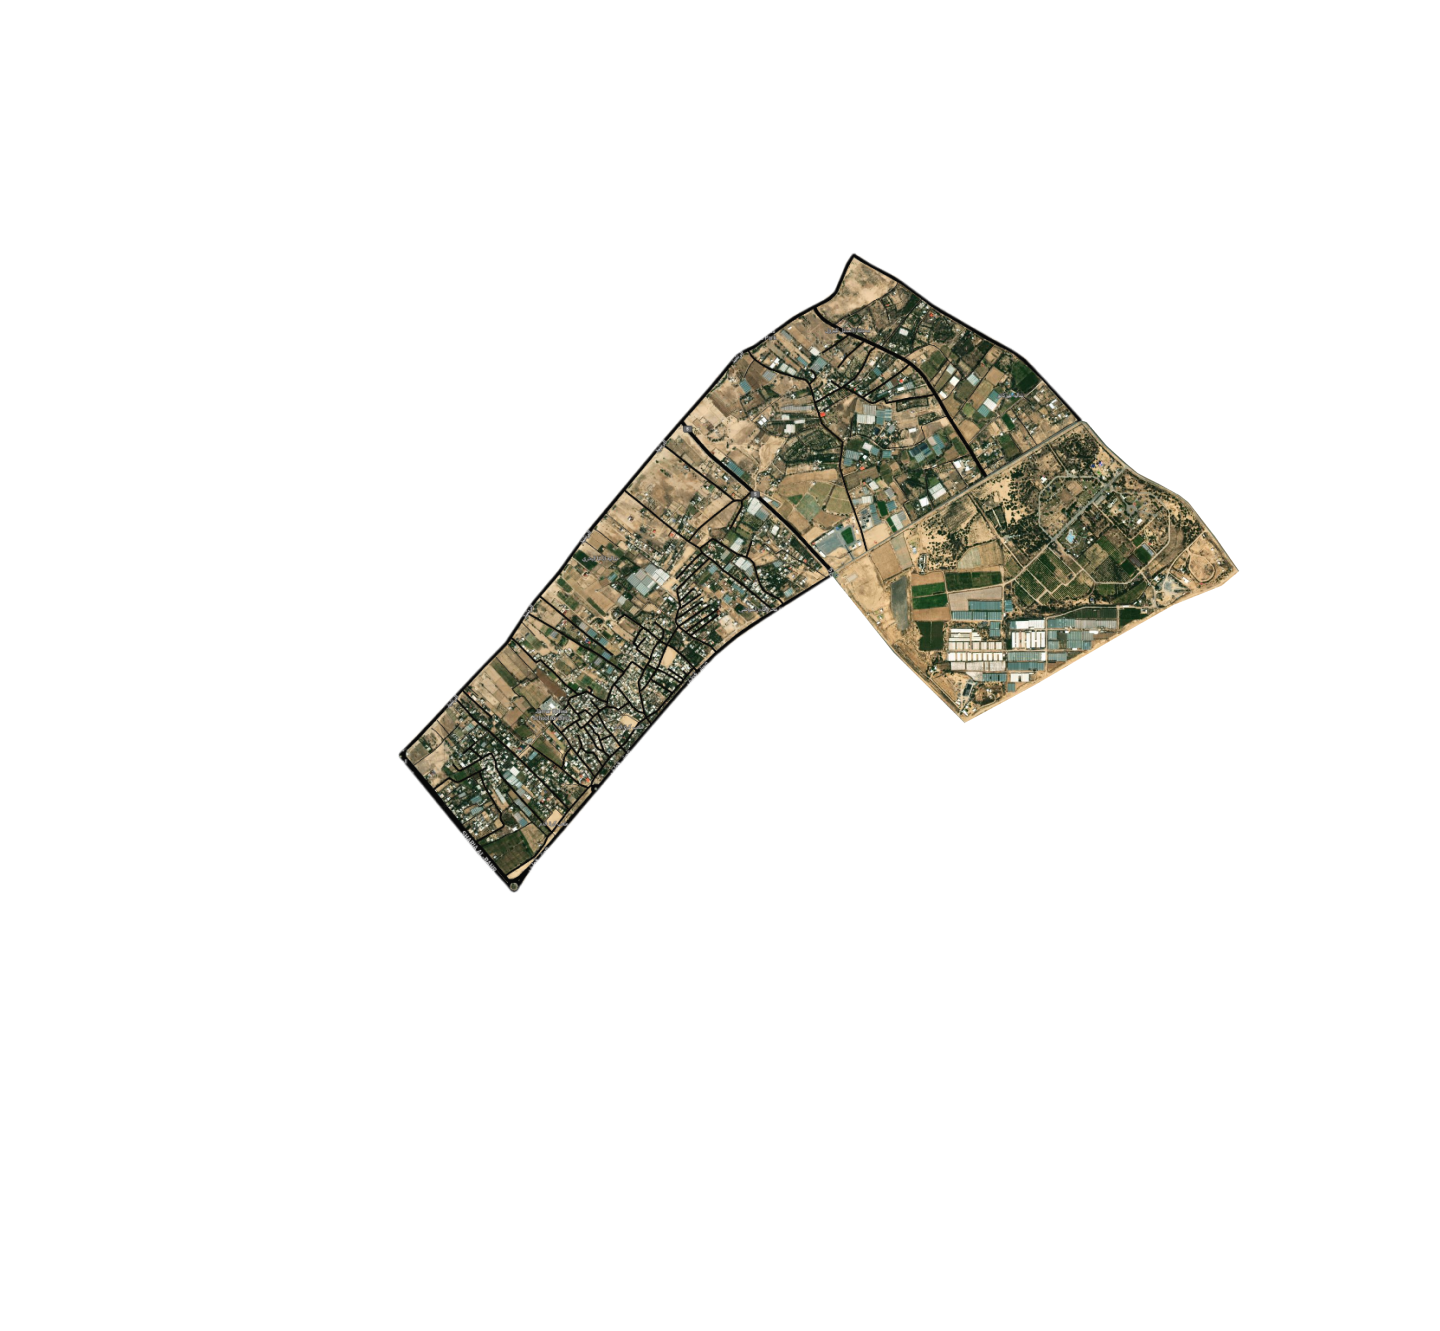
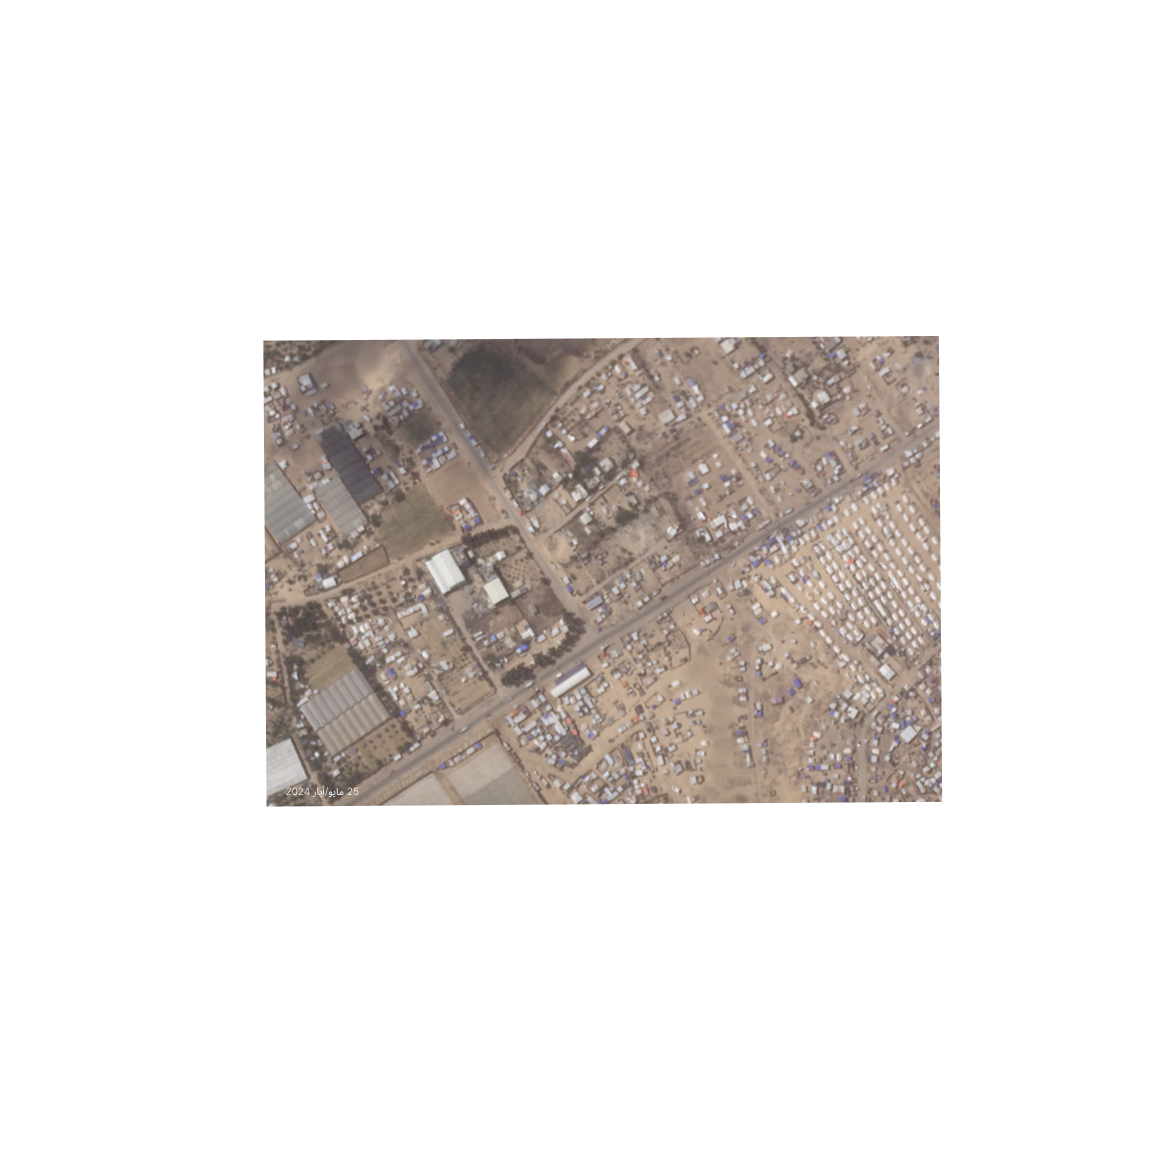
90% Preview (without mobile)

Changed region(s): [[0.2147, 0.184, 0.8586, 0.7053]]

diff --git a/js/main.js b/js/main.js
@@ -131,7 +131,7 @@ function showLoading(){
             document.dispatchEvent(event);
             hideLoadingScreen();
             // Disable Scroll until ok is clicked
-            lockScroll();
+            // lockScroll();
             // Unlock page (remove warning) on button click
             document.getElementById('unlockScrollButton').addEventListener('click', function() {
                 if(!isMobileScreen()){
@@ -376,7 +376,14 @@ function addImageLayer(name, size, rotation=0, duration=0.1, before=false){
                 'source': name,
                 'layout': {
                     'icon-image': name,
-                    'icon-size': size
+                    'icon-size': ['interpolate', ['linear'], ['zoom'],
+                        9, size / 1.5,
+                        13, size * 1.5,
+                        14, size * 4,
+                        15, size * 8,
+                    ],
+                    'icon-allow-overlap': true,
+                    'icon-anchor': 'center',
                 }
             }, before);
         }else{
@@ -386,7 +393,14 @@ function addImageLayer(name, size, rotation=0, duration=0.1, before=false){
                 'source': name,
                 'layout': {
                     'icon-image': name,
-                    'icon-size': size
+                    'icon-size': ['interpolate', ['linear'], ['zoom'],
+                        9, size / 1.5,
+                        13, size * 1.5,
+                        14, size * 4,
+                        15, size * 8,
+                    ],
+                    'icon-allow-overlap': true,
+                    'icon-anchor': 'center',
                 }
             });
         }
@@ -483,12 +497,14 @@ const svgImages = [
     { id: 'mawasi', path: 'assets/imagery/mawasi.png', coordinates: [34.265655, 31.349355]},
     { id: 'mawasi-two', path: 'assets/imagery/mawasi_2.png', coordinates: [34.300712, 31.377954]},
     { id: 'mawasi-two-two', path: 'assets/imagery/mawasi_2_2.png', coordinates: [34.300712, 31.377954]},
-    { id: 'mawasi-three', path: 'assets/imagery/mawasi_3.png', coordinates: [34.282923, 31.373260]},
+    // ,
+    { id: 'mawasi-three', path: 'assets/imagery/mawasi_3.png', coordinates: [34.284616, 31.368566]},
     { id: 'mawasi-four', path: 'assets/imagery/mawasi_4.png', coordinates: [34.296442, 31.375787]},
     { id: 'mawasi-five', path: 'assets/imagery/mawasi_5.png', coordinates: [34.296442, 31.375787]},
-    { id: 'mawasi-six', path: 'assets/imagery/mawasi_6.png', coordinates: [34.244100, 31.334291]},
-    { id: 'mawasi-seven', path: 'assets/imagery/mawasi_7.png', coordinates: [34.244100, 31.334291]},
-    { id: 'mawasi-eight', path: 'assets/imagery/mawasi_8.png', coordinates: getCoordinates('mawasi-eight')},
+    // ,
+    { id: 'mawasi-six', path: 'assets/imagery/mawasi_6.png', coordinates: [34.230671, 31.330667]},
+    { id: 'mawasi-seven', path: 'assets/imagery/mawasi_7.png', coordinates: [34.230671, 31.330667]},
+    { id: 'mawasi-eight', path: 'assets/imagery/mawasi_8.png', coordinates: [34.230671, 31.330667]},
 ];
 
 const gazaCoordinates = [34.46991,31.39533];
@@ -518,7 +534,7 @@ function getIconSize(size, accurate = false){
     if(accurate){
         return isMobileScreen() ? size - 0.2 : size;
     }
-    return isMobileScreen() ? (size / 2) - 0.2 : size;
+    return isMobileScreen() ? size  - 0.1 : size;
 }
 
 const map = new maplibregl.Map({
@@ -529,7 +545,11 @@ const map = new maplibregl.Map({
     interactive: false
 });
 
-
+function removeHalf(){
+    for(let i = 0; i < (svgImages.length / 2); i++){
+        removePreviousLayer(svgImages[i].id, 'icon-opacity', true);
+    }
+}
 
 map.on('load', async () => {
     map.fitBounds(getGazaBounds(), {
@@ -779,7 +799,7 @@ map.on('load', async () => {
                             }, false))
                             // Show arrows 3
                             tl.add(await loadLocalImage('arrow-3', 'assets/map_arrow_three.png', [34.26836, 31.28998]));
-                            tl.add(addImageLayer("arrow-3", getIconSize(0.8, true)))
+                            tl.add(addImageLayer("arrow-3", getIconSize(0.9, true)))
                             break;
                         case "three-two":
                             tl.add(removePreviousLayer("evac-area-three-one", "fill-opacity"))
@@ -832,7 +852,7 @@ map.on('load', async () => {
                             // });
 
                             // add the image
-                            tl.add(addImageLayer("rafah", getIconSize(1)))
+                            tl.add(addImageLayer("rafah", getIconSize(0.3)))
                             map.flyTo({
                                 center: [34.242789, 31.308767],
                                 essential: true,
@@ -842,24 +862,16 @@ map.on('load', async () => {
                         case "three-three":
                             // Remove Second Image
                             tl.add(removePreviousLayer('rafah', 'icon-opacity'));
-                            map.flyTo({
-                                center: [34.242789, 31.308767],
-                                essential: true,
-                                zoom: 14
-                            });
-                            tl.add(addImageLayer("rafah-two", getIconSize(1)))
+                            
+                            tl.add(addImageLayer("rafah-two", getIconSize(0.3)))
                             // add the third image
-                            map.flyTo({
-                                center: [34.242789, 31.308767],
-                                essential: true,
-                                zoom: 14
-                            });
+                           
                             break;
                         case "three-four":
                             // Remove second image
                             tl.add(removePreviousLayer("rafah-two", 'icon-opacity'))
                             // add the third image
-                            tl.add(addImageLayer("rafah-three", getIconSize(1)))
+                            tl.add(addImageLayer("rafah-three", getIconSize(0.2)))
                             break;
                         case "four":
                             tl.to("#three-two .content-child", {visibility: "hidden", opacity: 1, y: 0, duration: 0.1})
@@ -878,15 +890,14 @@ map.on('load', async () => {
                                 essential: true,
                                 zoom: 13.5
                             })
-                            tl.add(addImageLayer("south-one", getIconSize(1)))
+                            tl.add(addImageLayer("south-one", getIconSize(0.3)))
                             break;
                         case "five-two":
-                            tl.add(addImageLayer("south-two", getIconSize(1)))
+                            tl.add(addImageLayer("south-two", getIconSize(0.3)))
                             tl.add(removePreviousLayer("south-one", "icon-opacity"));
                             break;
                         case "five-three":
-                            logCurrentLayers();
-                            tl.add(addImageLayer("south-three", getIconSize(1)))
+                            tl.add(addImageLayer("south-three", getIconSize(0.3)))
                             break;
                         case "six":
                             tl.to("#five .content-child", {visibility: "hidden", opacity: 1, y: 0, duration: 0.1})
@@ -930,7 +941,7 @@ map.on('load', async () => {
                                     zoom: 12,
                                     center: [34.267808, 31.350360]
                                 })
-                                tl.add(addImageLayer("mawasi", 0.8))
+                                tl.add(addImageLayer("mawasi", 0.62))
                             }
                             
                             break;
@@ -988,10 +999,10 @@ map.on('load', async () => {
                                 essential: true,
                                 center: [34.300712, 31.377954]
                             })
-                            tl.add(addImageLayer("mawasi-two", getIconSize(1)))
+                            tl.add(addImageLayer("mawasi-two", getIconSize(0.3)))
                             break;
                         case "eleven-two":
-                            tl.add(addImageLayer("mawasi-two-two", getIconSize(1)))
+                            tl.add(addImageLayer("mawasi-two-two", getIconSize(0.3)))
                             break;
                         case "twelve":
                             // Hide The Map
@@ -1048,9 +1059,9 @@ map.on('load', async () => {
                                     center: [34.285983, 31.372169]
                                 })
                             }else{
-                                tl.add(addImageLayer("mawasi-three", getIconSize(1)))
+                                tl.add(addImageLayer("mawasi-three", 0.36))
                                 map.flyTo({
-                                    zoom: 12,
+                                    zoom: 13,
                                     essential: true,
                                     center: [34.285983, 31.372169]
                                 })
@@ -1058,7 +1069,7 @@ map.on('load', async () => {
                             
                             break;
                         case "seventeen":
-                            tl.add(addImageLayer("mawasi-four", getIconSize(1))) 
+                            tl.add(addImageLayer("mawasi-four", getIconSize(0.3))) 
                             // tl.add(removePreviousLayer("mawasi-three", "icon-opacity"))
                             map.flyTo({
                                 zoom: 14,
@@ -1068,7 +1079,7 @@ map.on('load', async () => {
                             break;
                         case "eighteen":
                             tl.add(removePreviousLayer("mawasi-four", "icon-opacity"));
-                            tl.add(addImageLayer("mawasi-five", getIconSize(1))) 
+                            tl.add(addImageLayer("mawasi-five", getIconSize(0.3))) 
                             break;
                         case "eighteen-two":
                             tl.to("#fifteen .content-child", {visibility: "hidden", opacity: 1, y: 0, duration: 0.1})
@@ -1132,7 +1143,7 @@ map.on('load', async () => {
                             tl.add(showMap());
 
                             // ,
-                            tl.add(addImageLayer("mawasi-six", getIconSize(1))) 
+                            tl.add(addImageLayer("mawasi-six", getIconSize(0.28))) 
                             map.flyTo({
                                 zoom: 14,
                                 essential: true,
@@ -1141,16 +1152,16 @@ map.on('load', async () => {
                             break;
                         case "twentynine":
                             tl.add(removePreviousLayer("mawasi-six", 'icon-opacity'))
-                            tl.add(addImageLayer("mawasi-seven", getIconSize(1))) 
+                            tl.add(addImageLayer("mawasi-seven", getIconSize(0.28))) 
                             break;
                         case "thirty":
                             tl.add(removePreviousLayer("mawasi-seven", 'icon-opacity'))
-                            tl.add(addImageLayer("mawasi-eight", getIconSize(1))) 
-                            // ,,,
+                            tl.add(addImageLayer("mawasi-eight", getIconSize(0.28))) 
+                            // ,
                             map.flyTo({
                                 zoom: 15,
                                 essential: true,
-                                center: [34.246495, 31.334916]
+                                center: [34.238093, 31.333118]
                             })
                             break;
                         case "thirtyone":
@@ -1162,6 +1173,7 @@ map.on('load', async () => {
                                 duration: 1000
                             });
                             tl.add(removePreviousLayer("mawasi-eight", 'icon-opacity'))
+                            removeHalf();
                             break;
                     }
                 },
@@ -1219,14 +1231,8 @@ map.on('load', async () => {
                             map.flyTo({
                                 zoom: 15,
                                 essential: true,
-                                center: [34.246495, 31.334916]
+                                center: [34.238093, 31.333118]
                             })
-                            // Old in case of errors
-                            // map.flyTo({
-                            //     zoom: 14,
-                            //     essential: true,
-                            //     center: [34.244100, 31.334291]
-                            // })
                             break;
                         case "nineteen":
                             map.flyTo({
@@ -1276,7 +1282,7 @@ map.on('load', async () => {
                             map.flyTo({
                                 center: [34.27204, 31.23714],
                                 essential: true,
-                                zoom: 13
+                                zoom: 13.5
                             })
                             break;
                         case "four":
